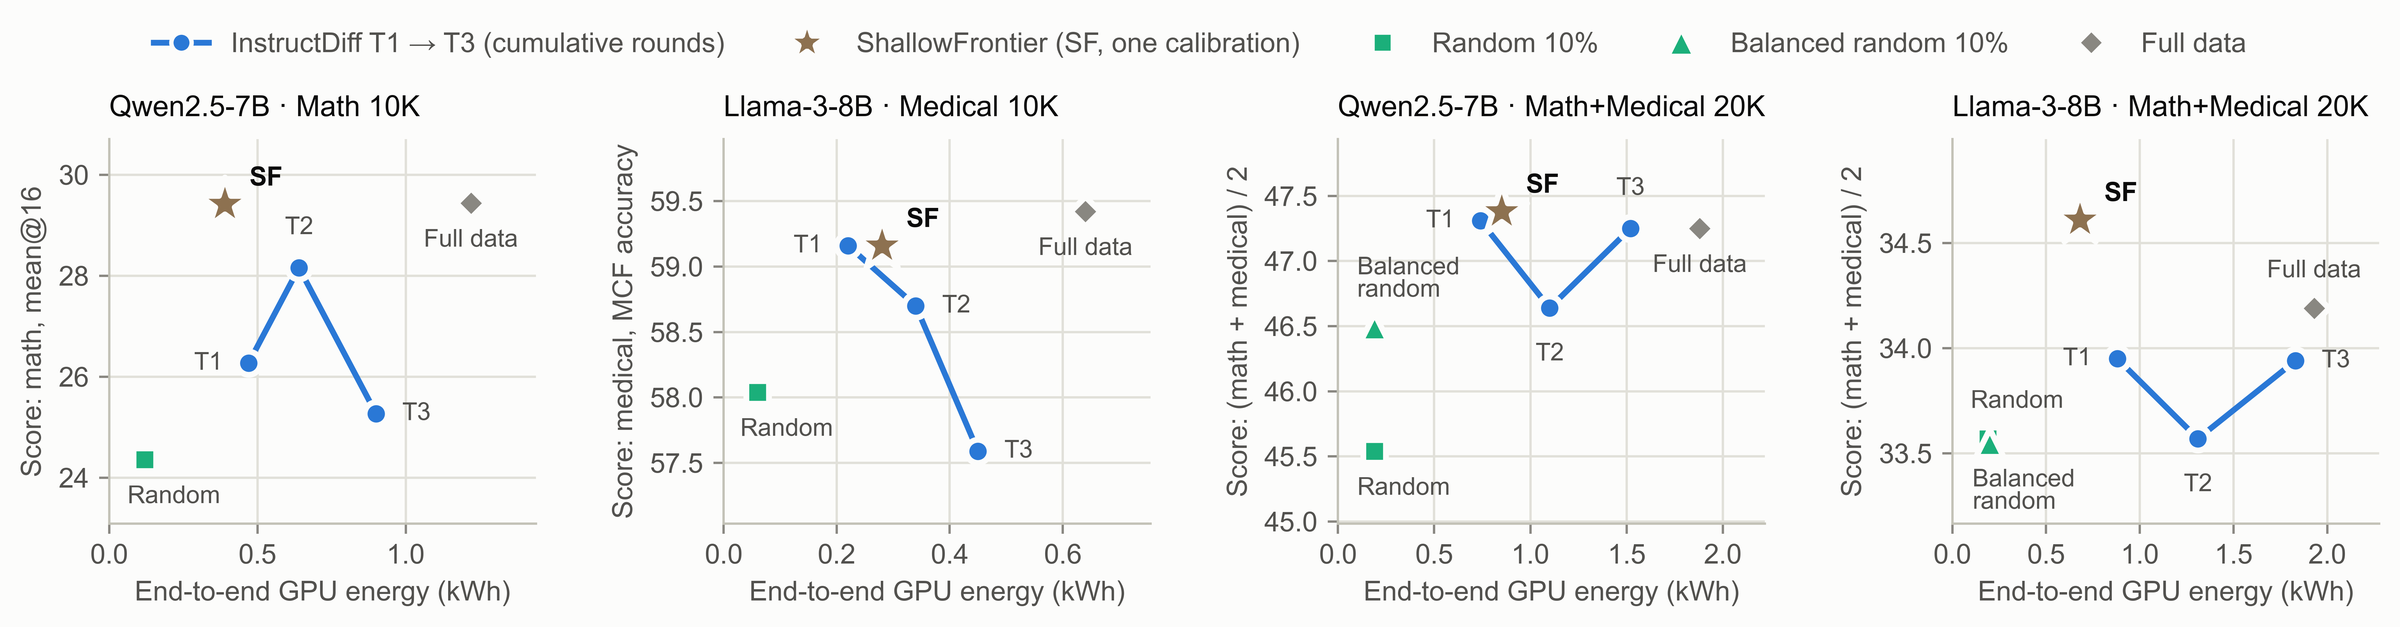
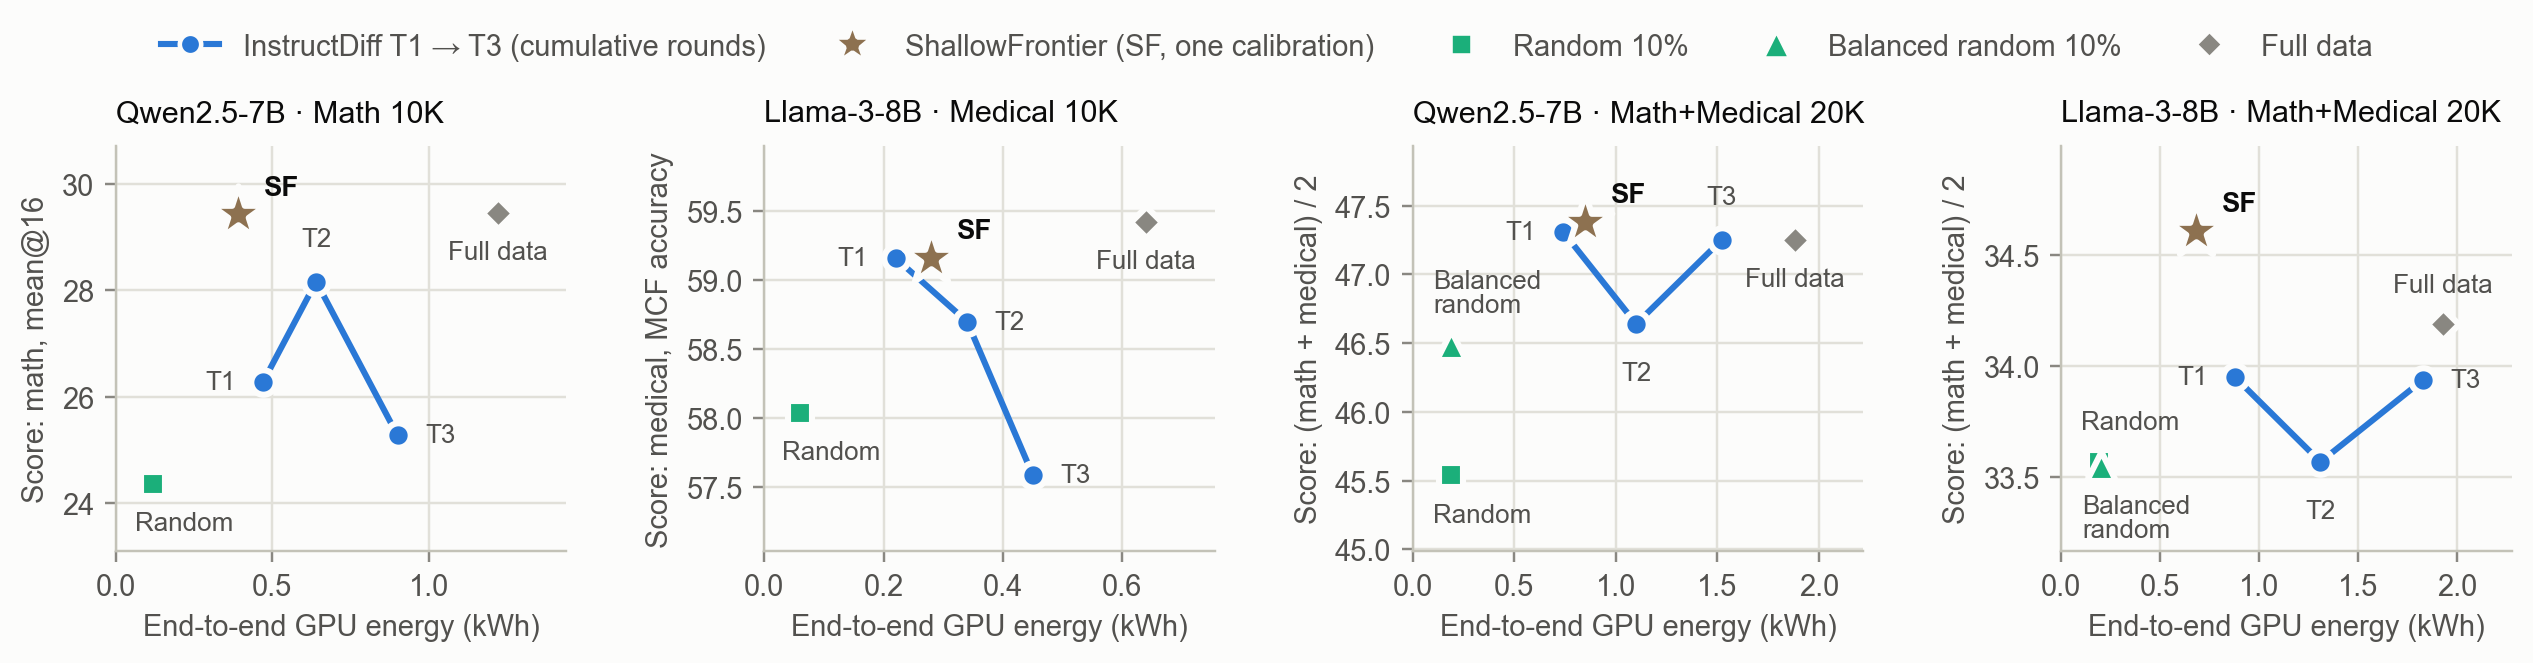
Update ShallowFrontier project

diff --git a/index.html b/index.html
@@ -289,6 +289,7 @@ details.setup p{font-size:14.5px;color:var(--ink-2);line-height:1.65;margin:8px 
 .fig-frame.narrow{max-width:560px}
 .fig figcaption{font-size:13.5px;color:var(--ink-2);margin-top:10px;line-height:1.55;max-width:62em}
 .fig figcaption b{color:var(--ink);font-weight:600}
+.fig + .p-lead{margin-top:32px}
 .viz{background:var(--surface);border:1px solid var(--line);border-radius:18px;padding:20px 20px 16px;box-shadow:var(--shadow);min-width:0;margin:0}
 .viz-title{font-weight:600;font-size:15.5px;letter-spacing:-.01em;margin:0}
 .viz-sub{font-size:13px;color:var(--muted);margin:2px 0 14px}
@@ -459,12 +460,13 @@ footer button:hover{color:var(--ink)}
       <button class="filter" type="button" data-f="nlp" aria-pressed="false"><svg class="ic" aria-hidden="true"><use href="#ic-nlp"/></svg><span class="en">Applied NLP</span><span class="ko">응용 NLP</span></button>
     </div>
     <div class="pgroup">
-    <p class="group-label"><span class="en">Current research</span><span class="ko">진행 중인 연구</span></p>
+    <p class="group-label"><span class="en">Research</span><span class="ko">연구</span></p>
     <div class="pgrid three">
       <a class="pcard reveal" href="#projects/shallowfrontier" data-tags="data">
         <h3>Recipe-Adaptive Data Selection for Efficient LLM Fine-Tuning</h3>
+        <p class="pc-note"><span class="en">Completed · Open-source release</span><span class="ko">완료 · 코드 공개</span></p>
         <div class="tags"><span class="tagbox"><svg class="ic" aria-hidden="true"><use href="#ic-data"/></svg><span class="en">Data-Efficient Learning</span><span class="ko">데이터 효율적 학습</span></span></div>
-        <span class="pc-go"><span class="date"><span class="en">Jul 2026 – Present</span><span class="ko">2026.07 – 현재</span></span><span class="en">View project</span><span class="ko">자세히 보기</span><svg class="i" viewBox="0 0 24 24" aria-hidden="true"><path d="M5 12h14"/><path d="m12 5 7 7-7 7"/></svg></span>
+        <span class="pc-go"><span class="date"><span class="en">Jul – Nov 2026</span><span class="ko">2026.07 – 2026.11</span></span><span class="en">View project</span><span class="ko">자세히 보기</span><svg class="i" viewBox="0 0 24 24" aria-hidden="true"><path d="M5 12h14"/><path d="m12 5 7 7-7 7"/></svg></span>
       </a>
       <a class="pcard reveal" href="#projects/spatial-cot" data-tags="reasoning embodied">
         <h3>Efficient Long Chain-of-Thought Reasoning for 3D Spatial QA via Hidden-State Probing</h3>
@@ -608,34 +610,30 @@ footer button:hover{color:var(--ink)}
     <!-- 1. Recipe-adaptive data selection -->
     <article class="project" id="shallowfrontier" data-title="Recipe-Adaptive Data Selection for Efficient LLM Fine-Tuning" hidden>
       <header class="p-head">
-        <div class="p-meta"><span class="date"><span class="en">Jul 2026 – Present</span><span class="ko">2026.07 – 현재</span></span><a class="tagbox" href="#tag/data"><svg class="ic" aria-hidden="true"><use href="#ic-data"/></svg><span class="en">Data-Efficient Learning</span><span class="ko">데이터 효율적 학습</span></a><span class="badge"><span class="en">Ongoing</span><span class="ko">진행 중</span></span></div>
+        <div class="p-meta"><span class="date"><span class="en">Jul – Nov 2026</span><span class="ko">2026.07 – 2026.11</span></span><a class="tagbox" href="#tag/data"><svg class="ic" aria-hidden="true"><use href="#ic-data"/></svg><span class="en">Data-Efficient Learning</span><span class="ko">데이터 효율적 학습</span></a><span class="badge"><span class="en">Completed</span><span class="ko">완료</span></span><span class="badge"><span class="en">Open source</span><span class="ko">코드 공개</span></span></div>
         <h2 class="p-title" tabindex="-1">Recipe-Adaptive Data Selection for Efficient LLM Fine-Tuning</h2>
         <p class="p-sub">ShallowFrontier · Energy-Efficient LLM Data Selection via Asymmetric Prefix Extrapolation</p>
         <p class="p-authors"><b>Seungho Lee</b>, Suchan Yang</p>
-        <p class="p-links"><a class="btn" href="https://github.com/hufs24lsh/data-selection" target="_blank" rel="noopener"><svg class="i" viewBox="0 0 24 24" aria-hidden="true"><path d="M15 22v-4a4.8 4.8 0 0 0-1-3.5c3 0 6-2 6-5.5.08-1.25-.27-2.48-1-3.5.28-1.15.28-2.35 0-3.5 0 0-1 0-3 1.5-2.64-.5-5.36-.5-8 0C6 2 5 2 5 2c-.3 1.15-.3 2.35 0 3.5A5.403 5.403 0 0 0 4 9c0 3.5 3 5.5 6 5.5-.39.49-.68 1.05-.85 1.65-.17.6-.22 1.23-.15 1.85v4"/><path d="M9 18c-4.51 2-5-2-7-2"/></svg><span class="en">Code</span><span class="ko">코드</span></a><a class="btn" href="assets/ShallowFrontier_poster.pdf" target="_blank" rel="noopener"><svg class="i" viewBox="0 0 24 24" aria-hidden="true"><path d="M2 3h20"/><path d="M21 3v11a2 2 0 0 1-2 2H5a2 2 0 0 1-2-2V3"/><path d="m7 21 5-5 5 5"/></svg><span class="en">Poster</span><span class="ko">포스터</span></a></p>
+        <p class="p-links"><a class="btn" href="https://github.com/hufs24lsh/ShallowFrontier" target="_blank" rel="noopener"><svg class="i" viewBox="0 0 24 24" aria-hidden="true"><path d="M15 22v-4a4.8 4.8 0 0 0-1-3.5c3 0 6-2 6-5.5.08-1.25-.27-2.48-1-3.5.28-1.15.28-2.35 0-3.5 0 0-1 0-3 1.5-2.64-.5-5.36-.5-8 0C6 2 5 2 5 2c-.3 1.15-.3 2.35 0 3.5A5.403 5.403 0 0 0 4 9c0 3.5 3 5.5 6 5.5-.39.49-.68 1.05-.85 1.65-.17.6-.22 1.23-.15 1.85v4"/><path d="M9 18c-4.51 2-5-2-7-2"/></svg><span class="en">Code</span><span class="ko">코드</span></a><a class="btn" href="assets/ShallowFrontier_poster.pdf" target="_blank" rel="noopener"><svg class="i" viewBox="0 0 24 24" aria-hidden="true"><path d="M2 3h20"/><path d="M21 3v11a2 2 0 0 1-2 2H5a2 2 0 0 1-2-2V3"/><path d="m7 21 5-5 5 5"/></svg><span class="en">Poster</span><span class="ko">포스터</span></a></p>
         <p class="rq"><small><span class="en">Research question</span><span class="ko">연구 질문</span></small><span class="en">Under a given fine-tuning recipe, which training data does a model need, and how much of it?</span><span class="ko">주어진 fine-tuning 설정에서 모델에게 어떤 학습 데이터가, 얼마나 필요한가?</span></p>
-        <p class="p-pitch"><span class="en">Data selection is meant to save compute, but the best selection rule changes with the training recipe, and strong baselines repeat calibrate → select → train rounds whose cost is rarely counted. This project reads each data group’s learning phase from its gradient noise after a single shallow calibration, and decides what to keep and how much, without domain labels. Every method is compared by accuracy and by end-to-end GPU energy, selection included.</span><span class="ko">데이터 선택은 계산을 아끼기 위한 것이지만, 가장 좋은 선택 규칙은 학습 설정에 따라 바뀌고, 강력한 기준선은 비용이 잘 계산되지 않는 ‘보정 → 선택 → 학습’ 회차를 반복합니다. 이 연구는 얕은 보정을 한 번만 한 뒤 데이터 묶음마다 gradient noise로 학습 국면을 읽어, 도메인 라벨 없이 무엇을 얼마나 남길지 정합니다. 모든 방법은 정확도와 함께 선택 과정까지 포함한 전 과정 GPU 에너지로 비교합니다.</span></p>
+        <p class="p-pitch"><span class="en">Data selection is meant to save compute, yet its own cost is rarely counted: strong baselines such as InstructDiff (ACL 2026) repeat calibrate → select → train three times and keep the best round. ShallowFrontier calibrates once, groups the pool from the prompts alone, reads each group’s learning phase from its gradient noise, and selects differently in each phase, with no domain labels, reference answers or data-fitted constants. Every method is compared by accuracy and by end-to-end GPU energy, selection included.</span><span class="ko">데이터 선택은 계산을 아끼기 위한 것이지만, 정작 선택에 드는 비용은 잘 세지 않습니다. InstructDiff(ACL 2026) 같은 강력한 기준선은 ‘보정 → 선택 → 학습’을 세 번 반복한 뒤 가장 좋은 회차를 고릅니다. ShallowFrontier는 보정을 한 번만 하고, 프롬프트만으로 데이터를 묶은 뒤 묶음마다 gradient noise로 학습 국면을 읽어 국면에 따라 다르게 선택합니다. 도메인 라벨, 정답, 데이터에 맞춘 상수는 쓰지 않습니다. 모든 방법은 정확도와 함께, 선택 과정까지 포함한 전 과정 GPU 에너지로 비교합니다.</span></p>
       </header>
       <section class="p-sec">
         <h3 class="p-h"><span class="hn">01</span><span class="en">Approach</span><span class="ko">접근</span></h3>
-        <figure class="fig reveal"><a class="fig-frame wide" href="assets/sf-pipeline.png" target="_blank" rel="noopener"><img src="assets/sf-pipeline.png" alt="ShallowFrontier pipeline: warm-up calibration, label-free grouping, per-group noise scale, allocate and route" width="2400" height="460" loading="lazy" decoding="async"></a><figcaption><span class="en"><b>Figure.</b> ShallowFrontier pipeline: (1) one warm-up calibration, (2) label-free grouping of prompts, (3) per-group gradient noise scale, (4) shares ∝ <i>n/B</i> with phase-dependent routing, then full fine-tuning.</span><span class="ko"><b>그림.</b> ShallowFrontier 파이프라인: (1) 한 번의 워밍업 보정, (2) 프롬프트 기반 라벨 없는 묶기, (3) 묶음별 gradient noise scale, (4) <i>n/B</i> 비례 배분과 국면별 경로 선택, 이후 full fine-tuning.</span></figcaption></figure>
-        <p class="pipe-note"><span class="en"><b>Why two routes?</b> <i>B/b</i> is the noise-to-signal ratio inside one batch. Above 1, which rows enter a batch decides what it teaches, so contrastive selection helps; below 1, the group’s shared direction carries most of each step. On the same Qwen math data, changing only the recipe moves <i>B/b</i> from 0.27 to 1.49 and flips which rule wins.</span><span class="ko"><b>왜 두 경로인가?</b> <i>B/b</i>는 한 batch 안의 잡음 대 신호 비입니다. 1보다 크면 어떤 데이터가 batch에 들어가느냐가 배우는 내용을 정하므로 대조 기반 선택이 유리하고, 1보다 작으면 묶음의 공통 방향이 학습을 이끕니다. 같은 Qwen 수학 데이터에서 학습 설정만 바꿔도 <i>B/b</i>가 0.27에서 1.49로 바뀌고 이기는 규칙이 뒤집힙니다.</span></p>
+        <figure class="fig reveal"><a class="fig-frame wide" href="assets/sf-pipeline.png" target="_blank" rel="noopener"><img src="assets/sf-pipeline.png" alt="ShallowFrontier pipeline: warm-up calibration, label-free grouping, per-group noise scale, allocate and route" width="3200" height="613" loading="lazy" decoding="async"></a><figcaption><span class="en"><b>Figure.</b> ShallowFrontier pipeline: (1) one warm-up calibration, (2) label-free grouping of prompts, (3) per-group gradient noise scale, (4) shares ∝ <i>n/B</i> with phase-dependent routing, then full fine-tuning.</span><span class="ko"><b>그림.</b> ShallowFrontier 파이프라인: (1) 한 번의 워밍업 보정, (2) 프롬프트 기반 라벨 없는 묶기, (3) 묶음별 gradient noise scale, (4) <i>n/B</i> 비례 배분과 국면별 경로 선택, 이후 full fine-tuning.</span></figcaption></figure>
+        <p class="pipe-note"><span class="en"><b>Why two routes?</b> <i>B/b</i> is the noise-to-signal ratio inside one batch. Above 1, which rows enter a batch decides what it teaches, so contrastive selection helps; below 1, the group’s shared direction carries most of each step. On the same Qwen math data, changing only the training recipe moves <i>B/b</i> from 0.27 to 1.49 and flips which rule wins (+2.22 vs. −1.84 points, seed 42).</span><span class="ko"><b>왜 두 경로인가?</b> <i>B/b</i>는 한 batch 안의 잡음 대 신호 비입니다. 1보다 크면 어떤 데이터가 batch에 들어가느냐가 배우는 내용을 정하므로 대조 기반 선택이 유리하고, 1보다 작으면 묶음의 공통 방향이 학습을 이끕니다. 같은 Qwen 수학 데이터에서 학습 설정만 바꿔도 <i>B/b</i>가 0.27에서 1.49로 바뀌고 이기는 규칙이 뒤집힙니다(+2.22점 vs −1.84점, seed 42).</span></p>
       </section>
       <section class="p-sec">
-        <h3 class="p-h"><span class="hn">02</span><span class="en">Early findings</span><span class="ko">지금까지의 결과</span></h3>
-        <p class="p-lead"><span class="en">So far, on four testbeds (Qwen2.5-7B and Llama-3-8B; math, medical, and mixed pools), selecting 10% matches or beats the strongest baseline’s best round with 53% less end-to-end GPU energy (seed 42; the three-seed means tell the same story within seed noise).</span><span class="ko">지금까지 네 가지 실험 설정(Qwen2.5-7B, Llama-3-8B; 수학·의학·혼합)에서 10% 선택만으로 가장 강한 기준선의 최고 회차와 같거나 높은 성능을 내면서 전 과정 GPU 에너지를 53% 줄였습니다 (seed 42; 3개 seed 평균도 seed 잡음 범위 안에서 같은 경향).</span></p>
-        <figure class="fig reveal"><a class="fig-frame wide" href="assets/sf-energy-vs-score.png" target="_blank" rel="noopener"><img src="assets/sf-energy-vs-score.png" alt="Score against end-to-end GPU energy on four testbeds" width="2400" height="627" loading="lazy" decoding="async"></a><figcaption><span class="en"><b>Figure.</b> Score vs. end-to-end GPU energy on four testbeds (seed 42). InstructDiff’s best round is only known after all three rounds, so its real cost is T3’s. On the medical pool, every fine-tuned model scores below the base model (62.22).</span><span class="ko"><b>그림.</b> 네 가지 실험 설정에서의 성능 vs 전 과정 GPU 에너지 (seed 42). InstructDiff의 최고 회차는 세 회차를 모두 돌린 뒤에야 알 수 있으므로 실제 비용은 T3의 값입니다. 의학 데이터에서는 모든 fine-tuned 모델이 base 모델(62.22)보다 낮습니다.</span></figcaption></figure>
+        <h3 class="p-h"><span class="hn">02</span><span class="en">Results</span><span class="ko">결과</span></h3>
+        <p class="p-lead"><span class="en">Four testbeds, Qwen2.5-7B and Llama-3-8B on math, medical and mixed math + medical pools, each fine-tuned on a selected 10%. Scores come from five math benchmarks (mean@16) and three medical benchmarks (multiple-choice scoring); energy is the GPU energy of selection plus final fine-tuning, measured with NVML.</span><span class="ko">네 가지 실험 설정(Qwen2.5-7B, Llama-3-8B × 수학·의학·수학+의학 혼합)에서 각 데이터의 10%를 골라 full fine-tuning했습니다. 성능은 수학 벤치마크 5개(mean@16)와 의학 벤치마크 3개(객관식 채점)로, 에너지는 선택과 최종 학습의 GPU 에너지를 NVML로 측정했습니다.</span></p>
+        <ul class="kpis">
+          <li class="kpi"><div class="v">−53%</div><div class="k"><span class="en">end-to-end energy vs. InstructDiff (0.55 vs. 1.17 kWh), matching or beating its best round</span><span class="ko">InstructDiff 대비 전 과정 에너지 (0.55 vs 1.17 kWh), 최고 회차와 같거나 높은 성능</span></div></li>
+          <li class="kpi"><div class="v">−61%</div><div class="k"><span class="en">vs. full-data training (0.55 vs. 1.42 kWh), matching it on single-domain pools (within 0.3 points) and beating it on mixed pools</span><span class="ko">전체 데이터 학습 대비 (0.55 vs 1.42 kWh), 단일 도메인에서는 대등(0.3점 이내), 혼합 데이터에서는 더 높은 성능</span></div></li>
+        </ul>
+        <figure class="fig reveal"><a class="fig-frame wide" href="assets/sf-energy-vs-score.png" target="_blank" rel="noopener"><img src="assets/sf-energy-vs-score.png" alt="Score against end-to-end GPU energy on four testbeds" width="2533" height="663" loading="lazy" decoding="async"></a><figcaption><span class="en"><b>Figure.</b> Score vs. end-to-end GPU energy on four testbeds (seed 42). ShallowFrontier (★) is as accurate as InstructDiff’s best round or better on every testbed, at a fraction of the energy. InstructDiff’s best round is only known after all three rounds, so its real cost is that of all three. Three-seed means (seeds 42–44) agree within seed noise.</span><span class="ko"><b>그림.</b> 네 가지 실험 설정에서의 성능 vs 전 과정 GPU 에너지 (seed 42). ShallowFrontier(★)는 모든 실험 설정에서 InstructDiff의 최고 회차와 같거나 더 높은 성능을 훨씬 적은 에너지로 냅니다. InstructDiff의 최고 회차는 세 회차를 모두 돌린 뒤에야 알 수 있으므로 실제 비용은 세 회차 전체입니다. 3개 seed 평균(42–44)도 seed 잡음 범위 안에서 같은 결과를 보입니다.</span></figcaption></figure>
+        <p class="p-lead"><span class="en">What I took from it: an efficiency claim is only as strong as its accounting, so every number here counts the energy of selection itself.</span><span class="ko">배운 점: 효율성 주장은 비용을 얼마나 정직하게 세느냐만큼만 믿을 수 있습니다. 그래서 모든 수치에 선택 과정 자체의 에너지를 포함했습니다.</span></p>
       </section>
-      <section class="p-sec">
-        <h3 class="p-h"><span class="hn">03</span><span class="en">From findings to next steps</span><span class="ko">결과에서 다음 단계로</span></h3>
-        <div class="np-list">
-          <div class="np"><div class="np-seen"><span class="lab"><span class="en">Observed so far</span><span class="ko">지금까지 관찰</span></span><span class="en">Below the noise boundary (<i>B</i> &lt; <i>b</i>), the rows the base model finds easiest won in our runs, but why they win is still unclear.</span><span class="ko">잡음 경계 아래(<i>B</i> &lt; <i>b</i>)에서는 base 모델이 가장 쉽게 여기는 데이터가 이겼지만, 그 이유는 아직 분명하지 않습니다.</span></div><span class="np-arrow" aria-hidden="true"><svg class="i" viewBox="0 0 24 24"><path d="M5 12h14"/><path d="m12 5 7 7-7 7"/></svg></span><div class="np-next"><span class="lab"><span class="en">Next</span><span class="ko">다음 단계</span></span><span class="en">Explain this regime and replace the easiest-row heuristic with a criterion derived from training dynamics.</span><span class="ko">이 구간을 설명하고, ‘가장 쉬운 데이터’ 규칙을 학습 동역학에서 나온 원리적인 기준으로 바꿉니다.</span></div></div>
-          <div class="np"><div class="np-seen"><span class="lab"><span class="en">Observed so far</span><span class="ko">지금까지 관찰</span></span><span class="en">Follow-up checks suggest that output consistency drives the gains on problem-solving tasks, while preserving prior knowledge matters on knowledge tasks.</span><span class="ko">추가 검증에서 풀이형 과제는 출력의 일관성이, 지식형 과제는 기존 지식의 보존이 선택 효과를 좌우하는 것으로 보입니다.</span></div><span class="np-arrow" aria-hidden="true"><svg class="i" viewBox="0 0 24 24"><path d="M5 12h14"/><path d="m12 5 7 7-7 7"/></svg></span><div class="np-next"><span class="lab"><span class="en">Next</span><span class="ko">다음 단계</span></span><span class="en">Design task-aware selection criteria around these two factors.</span><span class="ko">이 두 요인을 중심으로 과제 유형에 맞는 선택 기준을 설계합니다.</span></div></div>
-          <div class="np"><div class="np-seen"><span class="lab"><span class="en">Observed so far</span><span class="ko">지금까지 관찰</span></span><span class="en">On mixed pools, <i>n/B</i> shares kept every domain represented, while the baseline’s repeated rounds could starve one (2 of 1,000 medical rows).</span><span class="ko">혼합 데이터에서 <i>n/B</i> 배분은 모든 도메인을 남겼지만, 기준선의 반복 회차는 한 도메인을 거의 없앨 수 있었습니다(의학 데이터 1,000개 중 2개).</span></div><span class="np-arrow" aria-hidden="true"><svg class="i" viewBox="0 0 24 24"><path d="M5 12h14"/><path d="m12 5 7 7-7 7"/></svg></span><div class="np-next"><span class="lab"><span class="en">Next</span><span class="ko">다음 단계</span></span><span class="en">Model the relations among groups and domains to decide not only what to keep but also what to create.</span><span class="ko">묶음과 도메인 사이의 관계를 모델링해, 무엇을 남길지뿐 아니라 무엇을 새로 만들지도 정합니다.</span></div></div>
-          <div class="np"><div class="np-seen"><span class="lab"><span class="en">Observed so far</span><span class="ko">지금까지 관찰</span></span><span class="en">The 10% subset stays within 0.3 points of full-data training on single-domain pools and above it on mixed pools, at 61% less energy.</span><span class="ko">10% 데이터만으로 단일 도메인에서는 전체 데이터 학습과 0.3점 이내, 혼합 데이터에서는 그보다 높은 성능을 61% 적은 에너지로 냈습니다.</span></div><span class="np-arrow" aria-hidden="true"><svg class="i" viewBox="0 0 24 24"><path d="M5 12h14"/><path d="m12 5 7 7-7 7"/></svg></span><div class="np-next"><span class="lab"><span class="en">Next</span><span class="ko">다음 단계</span></span><span class="en">Go beyond selection: compress, distill, or synthesize data so that even smaller sets keep what the model needs, still reporting energy end to end.</span><span class="ko">선택을 넘어, 데이터를 압축·증류·합성해 더 작은 데이터로도 모델에게 필요한 것을 담고, 에너지는 계속 전 과정 기준으로 보고합니다.</span></div></div>
-        </div>
-      </section>
-    </article>
+      </article>
 
     <!-- 2. Efficient long CoT for 3D spatial QA -->
     <article class="project" id="spatial-cot" data-title="Efficient Long Chain-of-Thought Reasoning for 3D Spatial QA via Hidden-State Probing" hidden>
